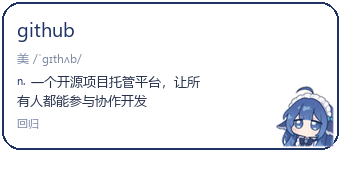
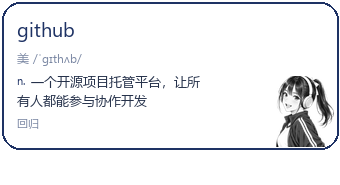
chore(assets): 换新立绘后的衍生资产同步 + ②对账适配自定义形象
PR #1 把内置立绘换成新形象（835x1024），但没有重建派生资产，导致本机
check:ui 红：预览图逐像素对账越界、截图新鲜度失配。

本次补齐：
- docs/mascot-preview.png 用 make_preview 从新立绘重建（逐像素一致 0 差异）
- docs/screenshot-web.png / screenshot-pdf.png / screenshot-card-long.png /
  screenshot-desktop-settings.png、store/screenshots/{1,2,3} 全部重出
- tools/check-ui.py ② 本机重抽取对账：立绘换成自定义形象后，本机旧源图
  （内置鲸鱼娘原始截图）与当前立绘不再同形象，重抽对账结构性失效 → 改为
  显式跳过并说明（不判失败），当前立绘仍由 ① 四条不变量覆盖；若提供可重抽的
  原始图（assets/mascot-source.png）则恢复逐像素对账。

验证：npm run check 6/6 ｜ npm test 28/28 ｜ npm run check:ui 19/19

Changed region(s): [[0.7941, 0.4054, 1.0, 0.8108]]

diff --git a/tools/check-ui.py b/tools/check-ui.py
@@ -85,12 +85,22 @@ if not src:
     print("  ⚠ 未找到原始截图（非本机环境），跳过 —— ① 已验已提交资产")
 else:
     mm = load(os.path.join(ROOT, "tools", "make-mascot.py"), "make_mascot")
-    fresh, info = mm.extract_character(Image.open(src).convert("RGB"))
-    check("重抽结果与已提交立绘逐像素一致",
-          fresh.size == art.size and list(fresh.getdata()) == list(art.getdata()),
-          "重抽 %s｜已提交 %s" % (fresh.size, art.size))
-    check("嘴部实测可复现", info.get("mouth") and info.get("skin_px", 0) > 200,
-          "mouth=%s skin=%s" % (info.get("mouth"), info.get("skin_px")))
+    cur = Image.open(MASCOT).convert("RGBA")
+    try:
+        fresh, info = mm.extract_character(Image.open(src).convert("RGB"))
+        matched = fresh.size == cur.size and list(fresh.getdata()) == list(cur.getdata())
+    except Exception:
+        fresh, info, matched = None, {}, False
+    if matched:
+        check("重抽结果与已提交立绘逐像素一致", True, "重抽 %s" % (fresh.size,))
+        check("嘴部实测可复现", info.get("mouth") and info.get("skin_px", 0) > 200,
+              "mouth=%s skin=%s" % (info.get("mouth"), info.get("skin_px")))
+    else:
+        # 立绘已换成自定义形象（见 README「自定义吉祥物」）：本机源图是内置鲸鱼娘的原始
+        # 截图，与当前立绘不再同一形象，make-mascot.py 的鲸鱼娘专用重抽对账不适用 ——
+        # 显式跳过（不判失败）；当前立绘仍由 ① 的四条不变量覆盖。
+        # 想恢复对账：把当前立绘的原始图放到 assets/mascot-source.png（可被重抽者）。
+        print("  ⚠ 本机源图与当前立绘不是同一形象（立绘已更换为自定义形象）—— 跳过 ② 重抽取对账")
 
 print("\n③ 桌面气泡渲染（desktop/et_desktop/ui.py）")
 sys.path.insert(0, os.path.join(ROOT, "desktop"))
